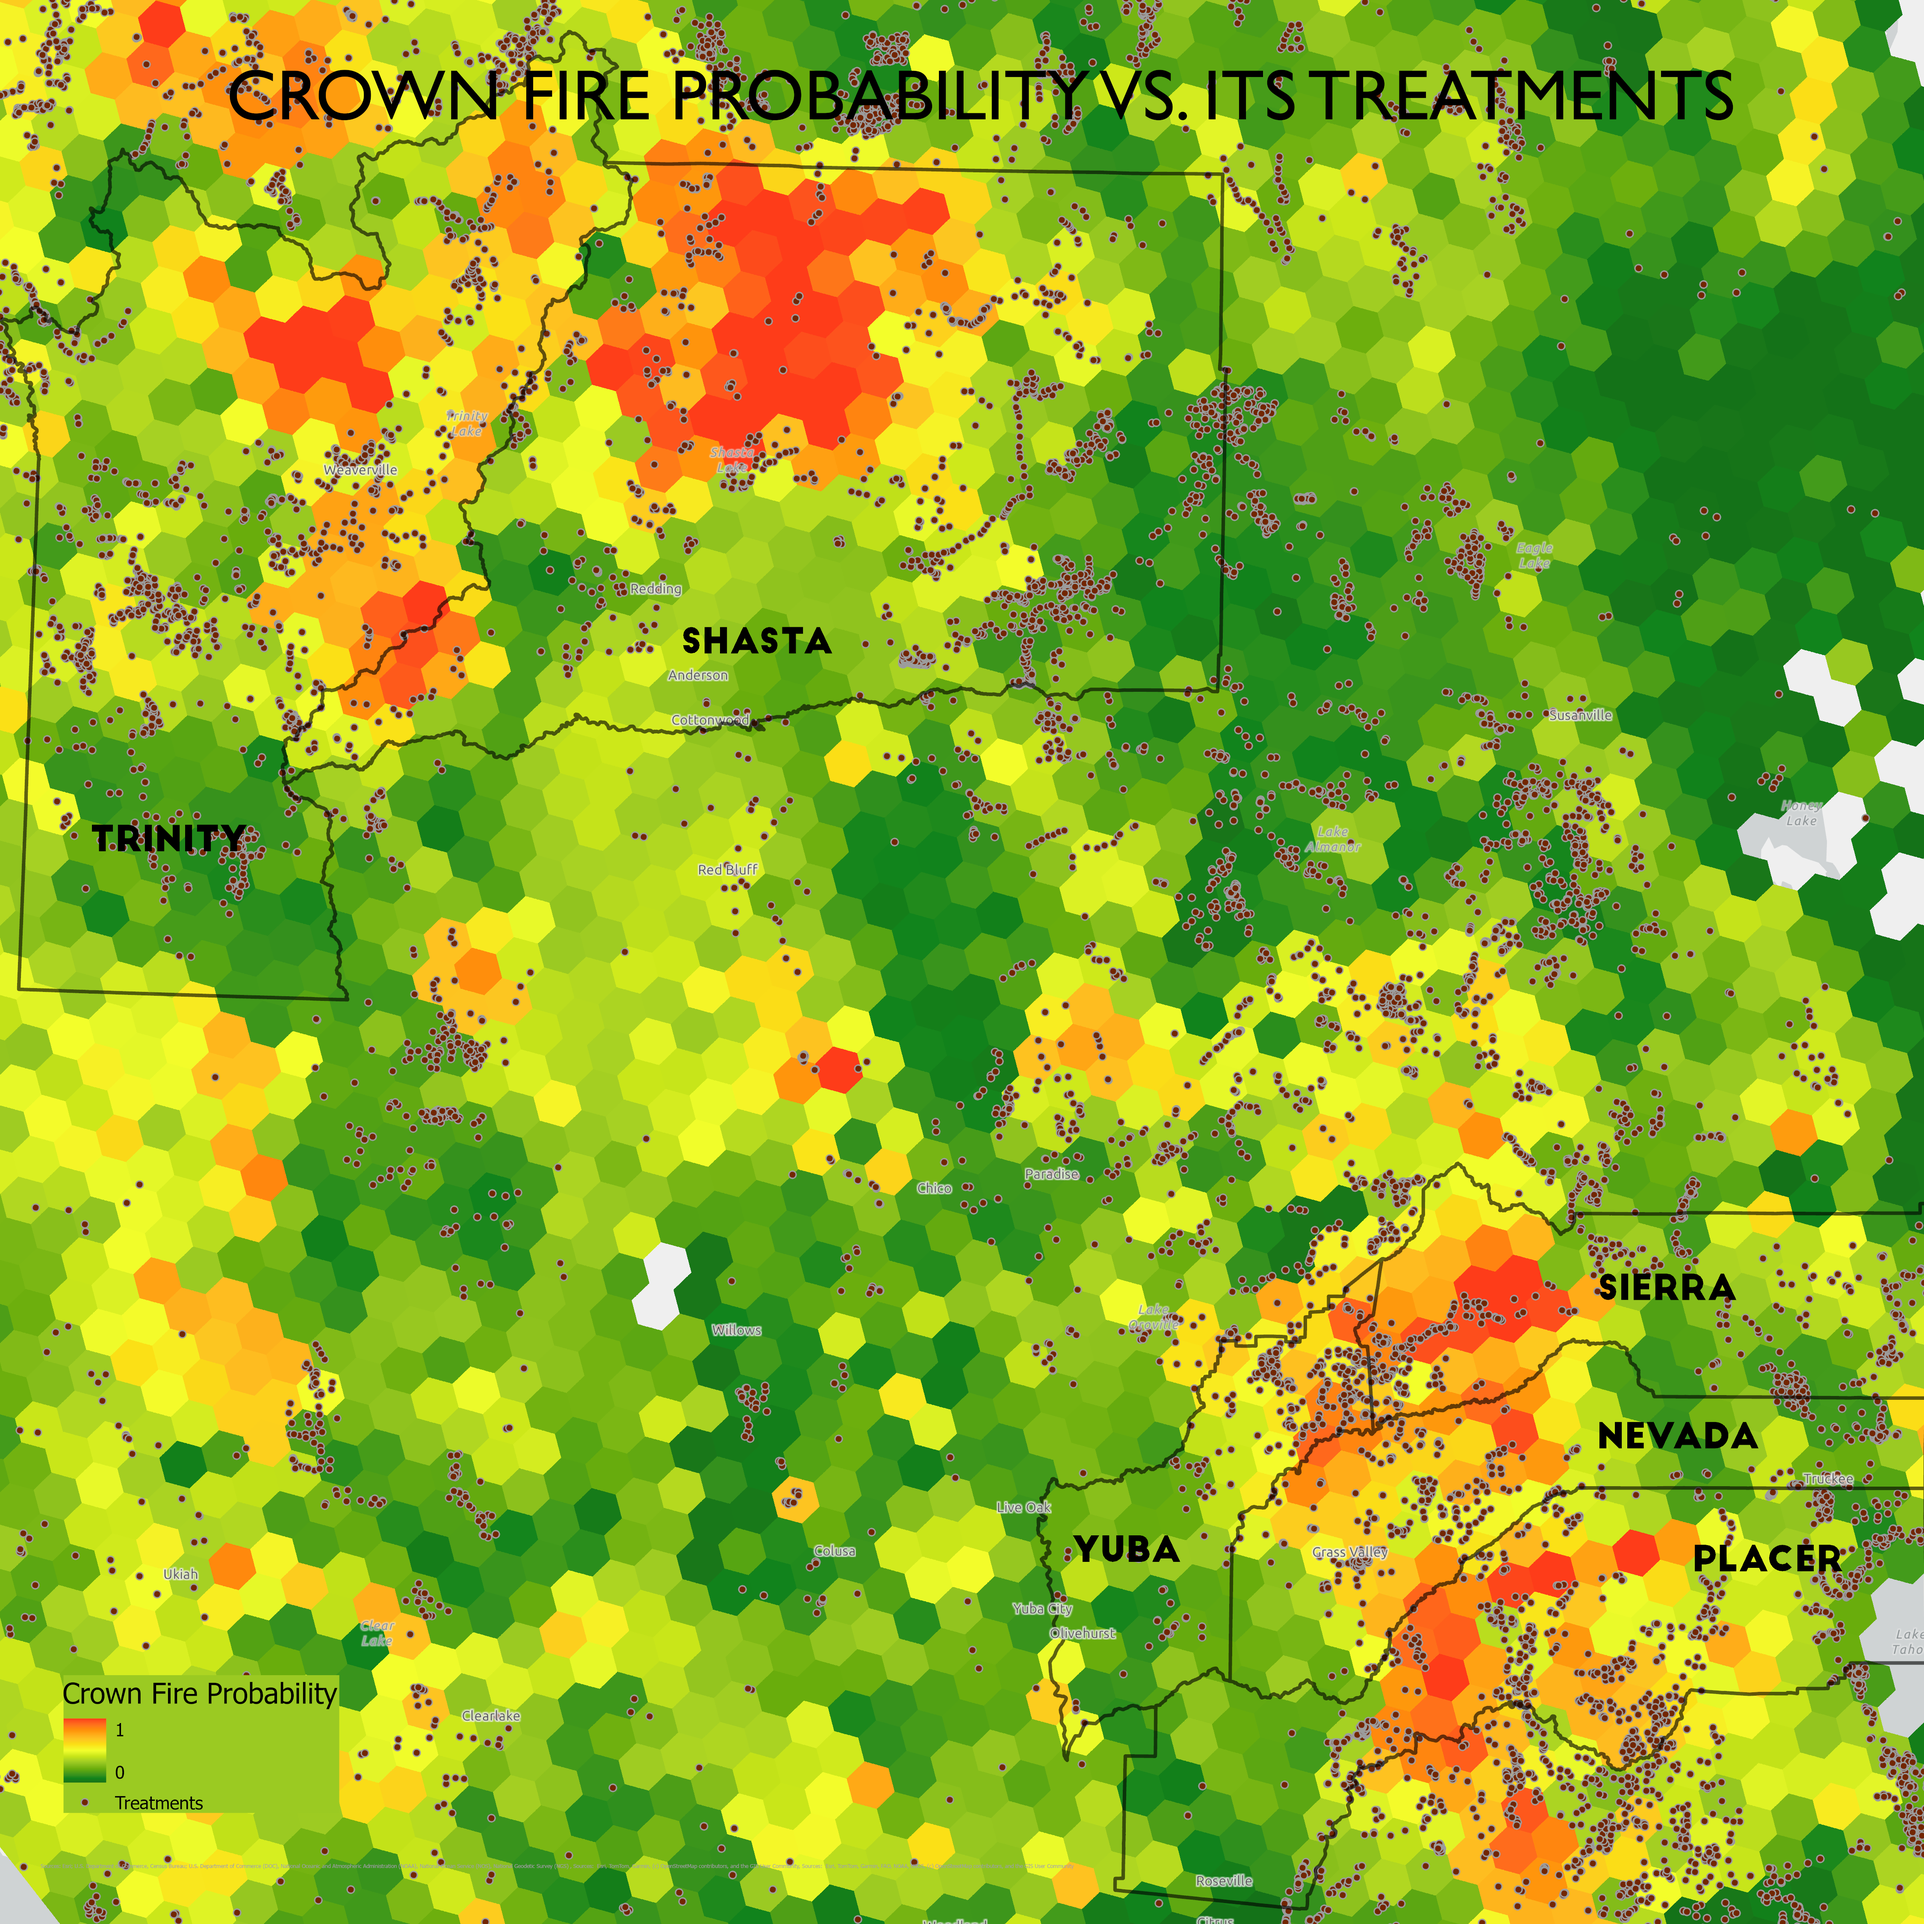
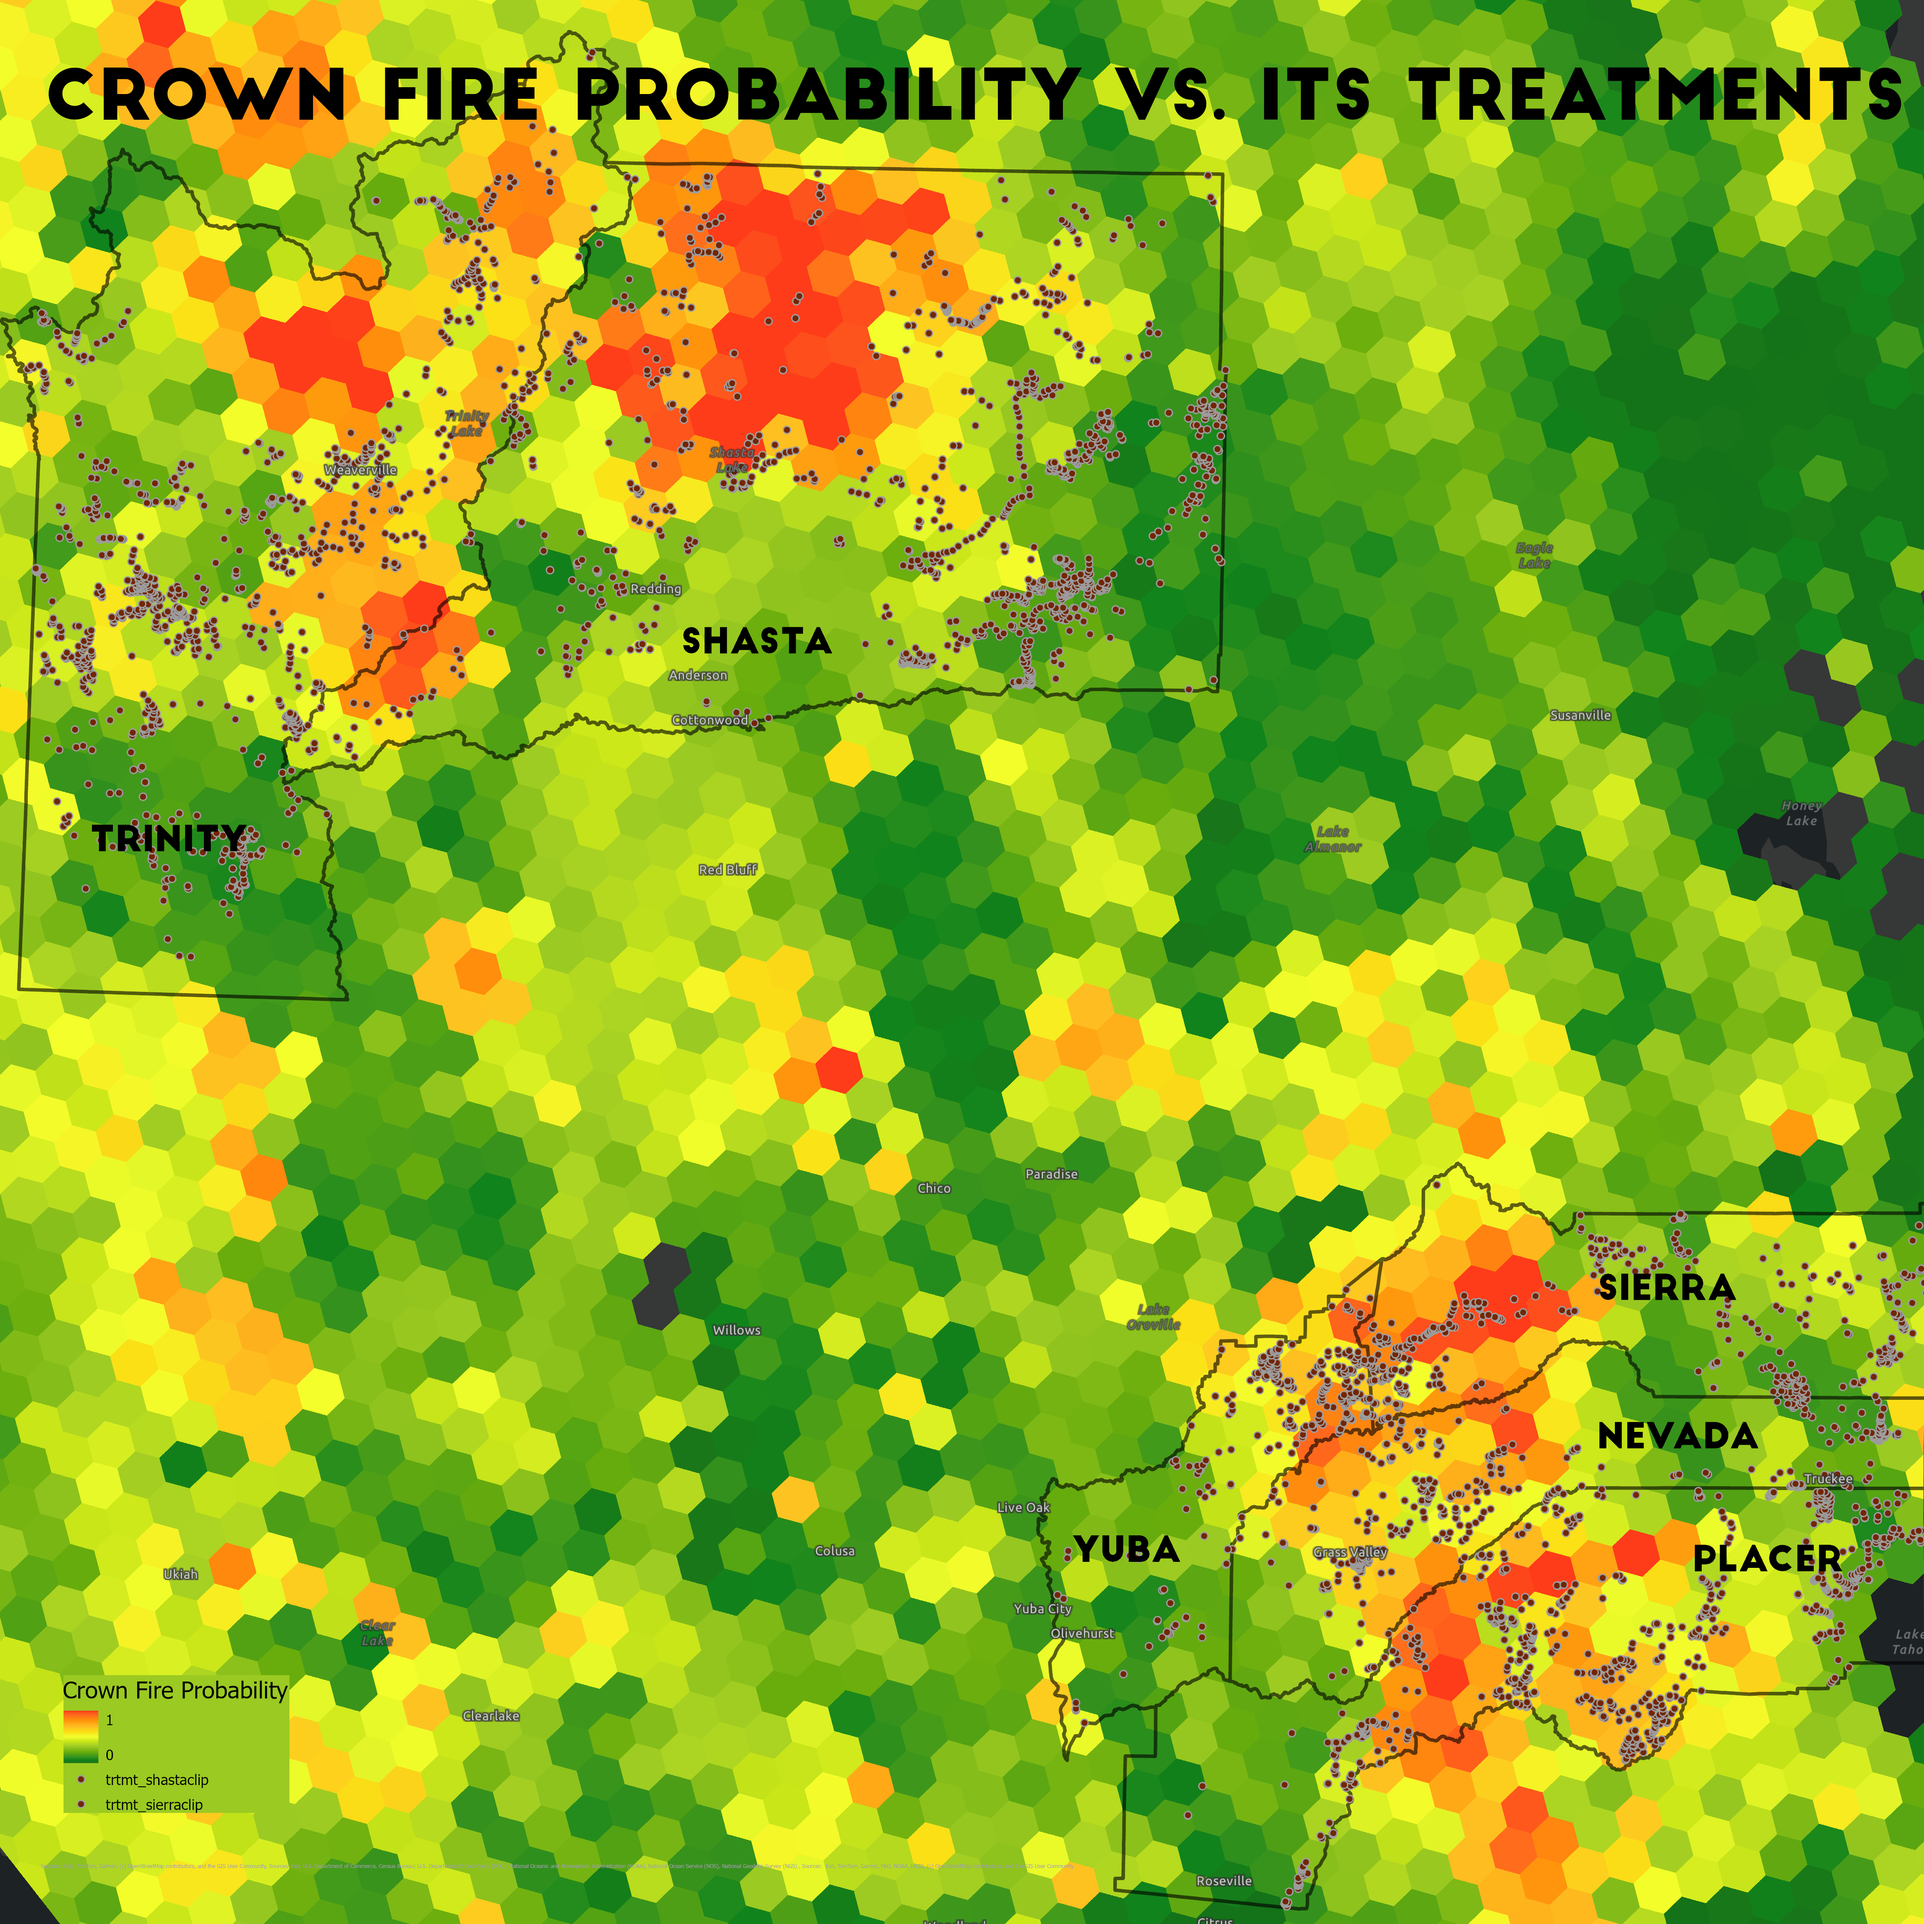
map changes

diff --git a/donut.md b/donut.md
@@ -14,28 +14,23 @@ exports:
 
 # Take-aways
 **1. Overlap**. The overlap between high crown fire probability and feasible mechanical treatment is low. For instance in the four county Central Sierra, these areas only overlap by 8%. While that's not great for mitigating fire, it could just mean that the most vulnerable areas aren't accessible for mechanical thinning and restoration efforts should be directed to easy to access places that prevent fire from running to higher probability areas.
-
 **2. Resilience**. It's unclear whether or not the donut hole areas are more resilient, haven't burned due to biotic or abiotic factors, but they do point to places where a large fire may yet occur and therefore need some attention.
-
-**3. Priotization**. Using crown fire probability and recent fire history may help prioritize where future mechanical thinning and prescribed fire forest health projects could be prioritized.
-
+**3. Prioritization**. Using crown fire probability and recent fire history may help prioritize where future mechanical thinning and prescribed fire forest health projects could be prioritized.
 
 # Background
 > "Nevada County [is] the next [big fire]. Everybody in wildland fire knows it. The ingress, egress, how many trees are in that area. I don't want to be there...I know people are going to die in that area. Bill Jacks [@standing]
 
-This is the 2nd of two articles examining vulnerability and resilience across California firescapes. The first [Predicting 2026 Wildfires](https://3point.xyz/predicting_fire2/) explored the potential fire vulnerability of two locations in the Sierra-Cascade region of California. This article explores more of the 'why' behind why large fires have not taken place recently in those regions and whether or not it may be due to dumb luck, or, more likely, abiotic and biotic factors.
+This is the 2nd of two articles examining vulnerability and resilience across California firescapes. The first [Predicting 2026 Wildfires](https://3point.xyz/predicting_fire2/) explored the potential fire vulnerability of two 'donut hole' locations in the Sierra-Cascade region of California where large, destructive fires have not occurred recently despite the existence of neighboring fires. This article explores more of the why behind why large fires have not taken place recently in those regions and whether or not it may be due to dumb luck, or, more likely, abiotic and biotic factors.
 
-Our main aim was to identify where intervention matters most rather than just reiterating that fire risk is high everywhere.
+Our main aim was to identify where intervention matters most rather than just reiterating that fire risk is high everywhere after identifying historical fire absence plus crown-fire probability plus treatment context equals areas potentially vulnerable to severe fire under current conditions.
 
 ## Methodology
-The Shasta-Trinity region did not have a mechanical treatment feasibility dataset, so we developed one using the methodology developed by @tukman. Data sources differed slightly where slope came from USGS 3DEP, and treatable vegetation from Landfire's existing vegetation type. Data was processed using a combination of python scripts and tools from QGIS and ArcGIS Pro.
+The Shasta-Trinity region did not have a mechanical treatment feasibility dataset, so we created one using the methodology developed by @tukman. Data sources differed slightly where slope came from USGS 3DEP, and treatable vegetation from the USGS National Land Class Dataset. Data was processed using a combination of Python, the Geospatial Data Abstraction Library (GDAL), QGIS, and ArcGIS Pro.
 
-
-The methodology feels more like this: historical fire absence plus crown-fire probability plus treatment context equals areas potentially vulnerable to severe fire under current conditions.
 
 
 # Donut holes & resilience
-The “donut hole” pattern in the Sierra/Nevada region is especially useful because it raises the question of whether some landscapes are functionally more resilient or just overdue for a major fire. Your point about the fragmented treatment of private parcels in the WUI is important; there is a real herd immunity metaphor in fire hardening that we need to consider. Shift from generalized narratives about “bad fire years” to identifying specific areas of vulnerability through the overlap of fire history gaps and crown-fire probability.
+The donut hole pattern in the Sierra/Nevada region is especially useful because it raises the question of whether some landscapes are functionally more resilient or just overdue for a major fire. The point in the first article about the fragmented treatment of private parcels in the WUI is important; there is a real herd immunity metaphor in fire hardening that should be considered for wildfire mitigation. Shift from generalized narratives about bad fire years to identifying specific areas of vulnerability through the overlap of fire history gaps and crown-fire probability.
 
 ## Avoided costs
 The 2014 Mokelumne Watershed Avoided Cost Analysis,suggested that treatment doesn’t have to occur uniformly to provide benefits across larger areas [@moke]. The study modeled that about 30% treatment in strategically connected areas can significantly change fire behavior in larger watershed systems.
@@ -47,15 +42,15 @@ This perspective also connects to cultural burning and long-term stewardship. Me
 This same systems thinking applies to communities as well. Forest care and home hardening should be seen as complementary elements of resilience, not separate policies. A treated forest around vulnerable communities reacts differently than one that is untreated, just as hardened homes and defensible space perform differently in areas experiencing lower-intensity fires. The interaction between these elements may be as important as any individual intervention.
 
 ## Biomass and fire
-We calculated the percent overlap between crown fire probability [@pyrologix] and mechanical treament feasibility for the four county Central Sierra region [@scenarioA] where the treatment feasibility is <35% slopes and within 1000' (just over 300m) of existing roads {numref}`over`. We did not examine this for the Shasta-Trinity county region since a treatment feasibility data layer does not yet exist.
+We calculated the percent overlap between crown fire probability [@pyrologix] and mechanical treament feasibility for the four county Central Sierra region [@scenarioA] where the treatment feasibility is <35% slopes and within 1000' (just over 300m) of existing roads {numref}`over`. We did not examine this in depth for the Shasta-Trinity region since the resulting mechanical treatment feasibility map for the region had 19% overlap for ok for treatment with high (>70%) crown fire probability. One minor difference is the mechanical treatment feasibility is <35% slopes in the Sierra but <40% for the Shasta-Trinity County region.
 
-:::{figure} overlap.png
+:::{figure} Overlap_all.png
 :label: over
 :height: 700
-Crown fire probability vs. mechanical treatment feasibility (<35% slopes and within 1000',just over 300m, of existing roads>). The calculated overlap between the two datasets is 8%.
+Crown fire probability vs. mechanical treatment feasibility (<35% slopes and within 1000',just over 300m, of existing roads>). The calculated overlap between the two datasets is 8% in the Sierra and 19% in the Cascades.
 :::
 
-Interestingly, only 8% of the treatment feasibility overlapped with crown fire probability. This is likely because the most vulnerable areas, those with the highest probability of crown fire, may exist on steeper, more remote slopes making them difficult to access for mechanical treatment. Although this is alarming from a mechanical treatment perspective, it could be that these areas' lack of accessibility may make them less prone to human-induced ignitions.
+Interestingly, only 8% of the treatment feasibility overlapped with crown fire probability in the Central Sierra region. This is likely because the most vulnerable areas, those with the highest probability of crown fire, may exist on steeper, more remote slopes making them difficult to access for mechanical treatment. Although this is alarming from a mechanical treatment perspective, it could be that these areas' lack of accessibility may make them less prone to human-induced ignitions.
 
 ## Inter-agency Tracking System
 On the other hand, if we examine treatments recorded in the Interagency Tracking System treatment tracker there is overlap between treatments and areas of high probability ({numref}`treatments`). Keep in mind that the polygons are large (10,000 ac) and the probabilities represent the median for the entire polygon. As a result, even small treatments could make a big difference over those relatively large landscapes.
@@ -63,7 +58,7 @@ On the other hand, if we examine treatments recorded in the Interagency Tracking
 :::{figure} its.png
 :label: treatments
 :height: 700
-Interagency Tracking System treatments compared to crown fire probability. There are more treatments in the Central Sierra high probability areas vs. the donut in the Cascades. In fact, the high probability region in northeast Shasta County does not have many treatments.
+Crown fire probability vs. Interagency Tracking System treatments. There are more treatments in the Central Sierra high probability areas vs. the donut in the Cascades. In fact, the high probability region in northeast Shasta County does not have many treatments.
 :::
 
 Examining this quantitatively, it's clear that the treatments in Shasta/Trinity Counties ({numref}`shasta`) are not as focused on high probability acres as the Sierra Counties ({numref}`sierra`). 
